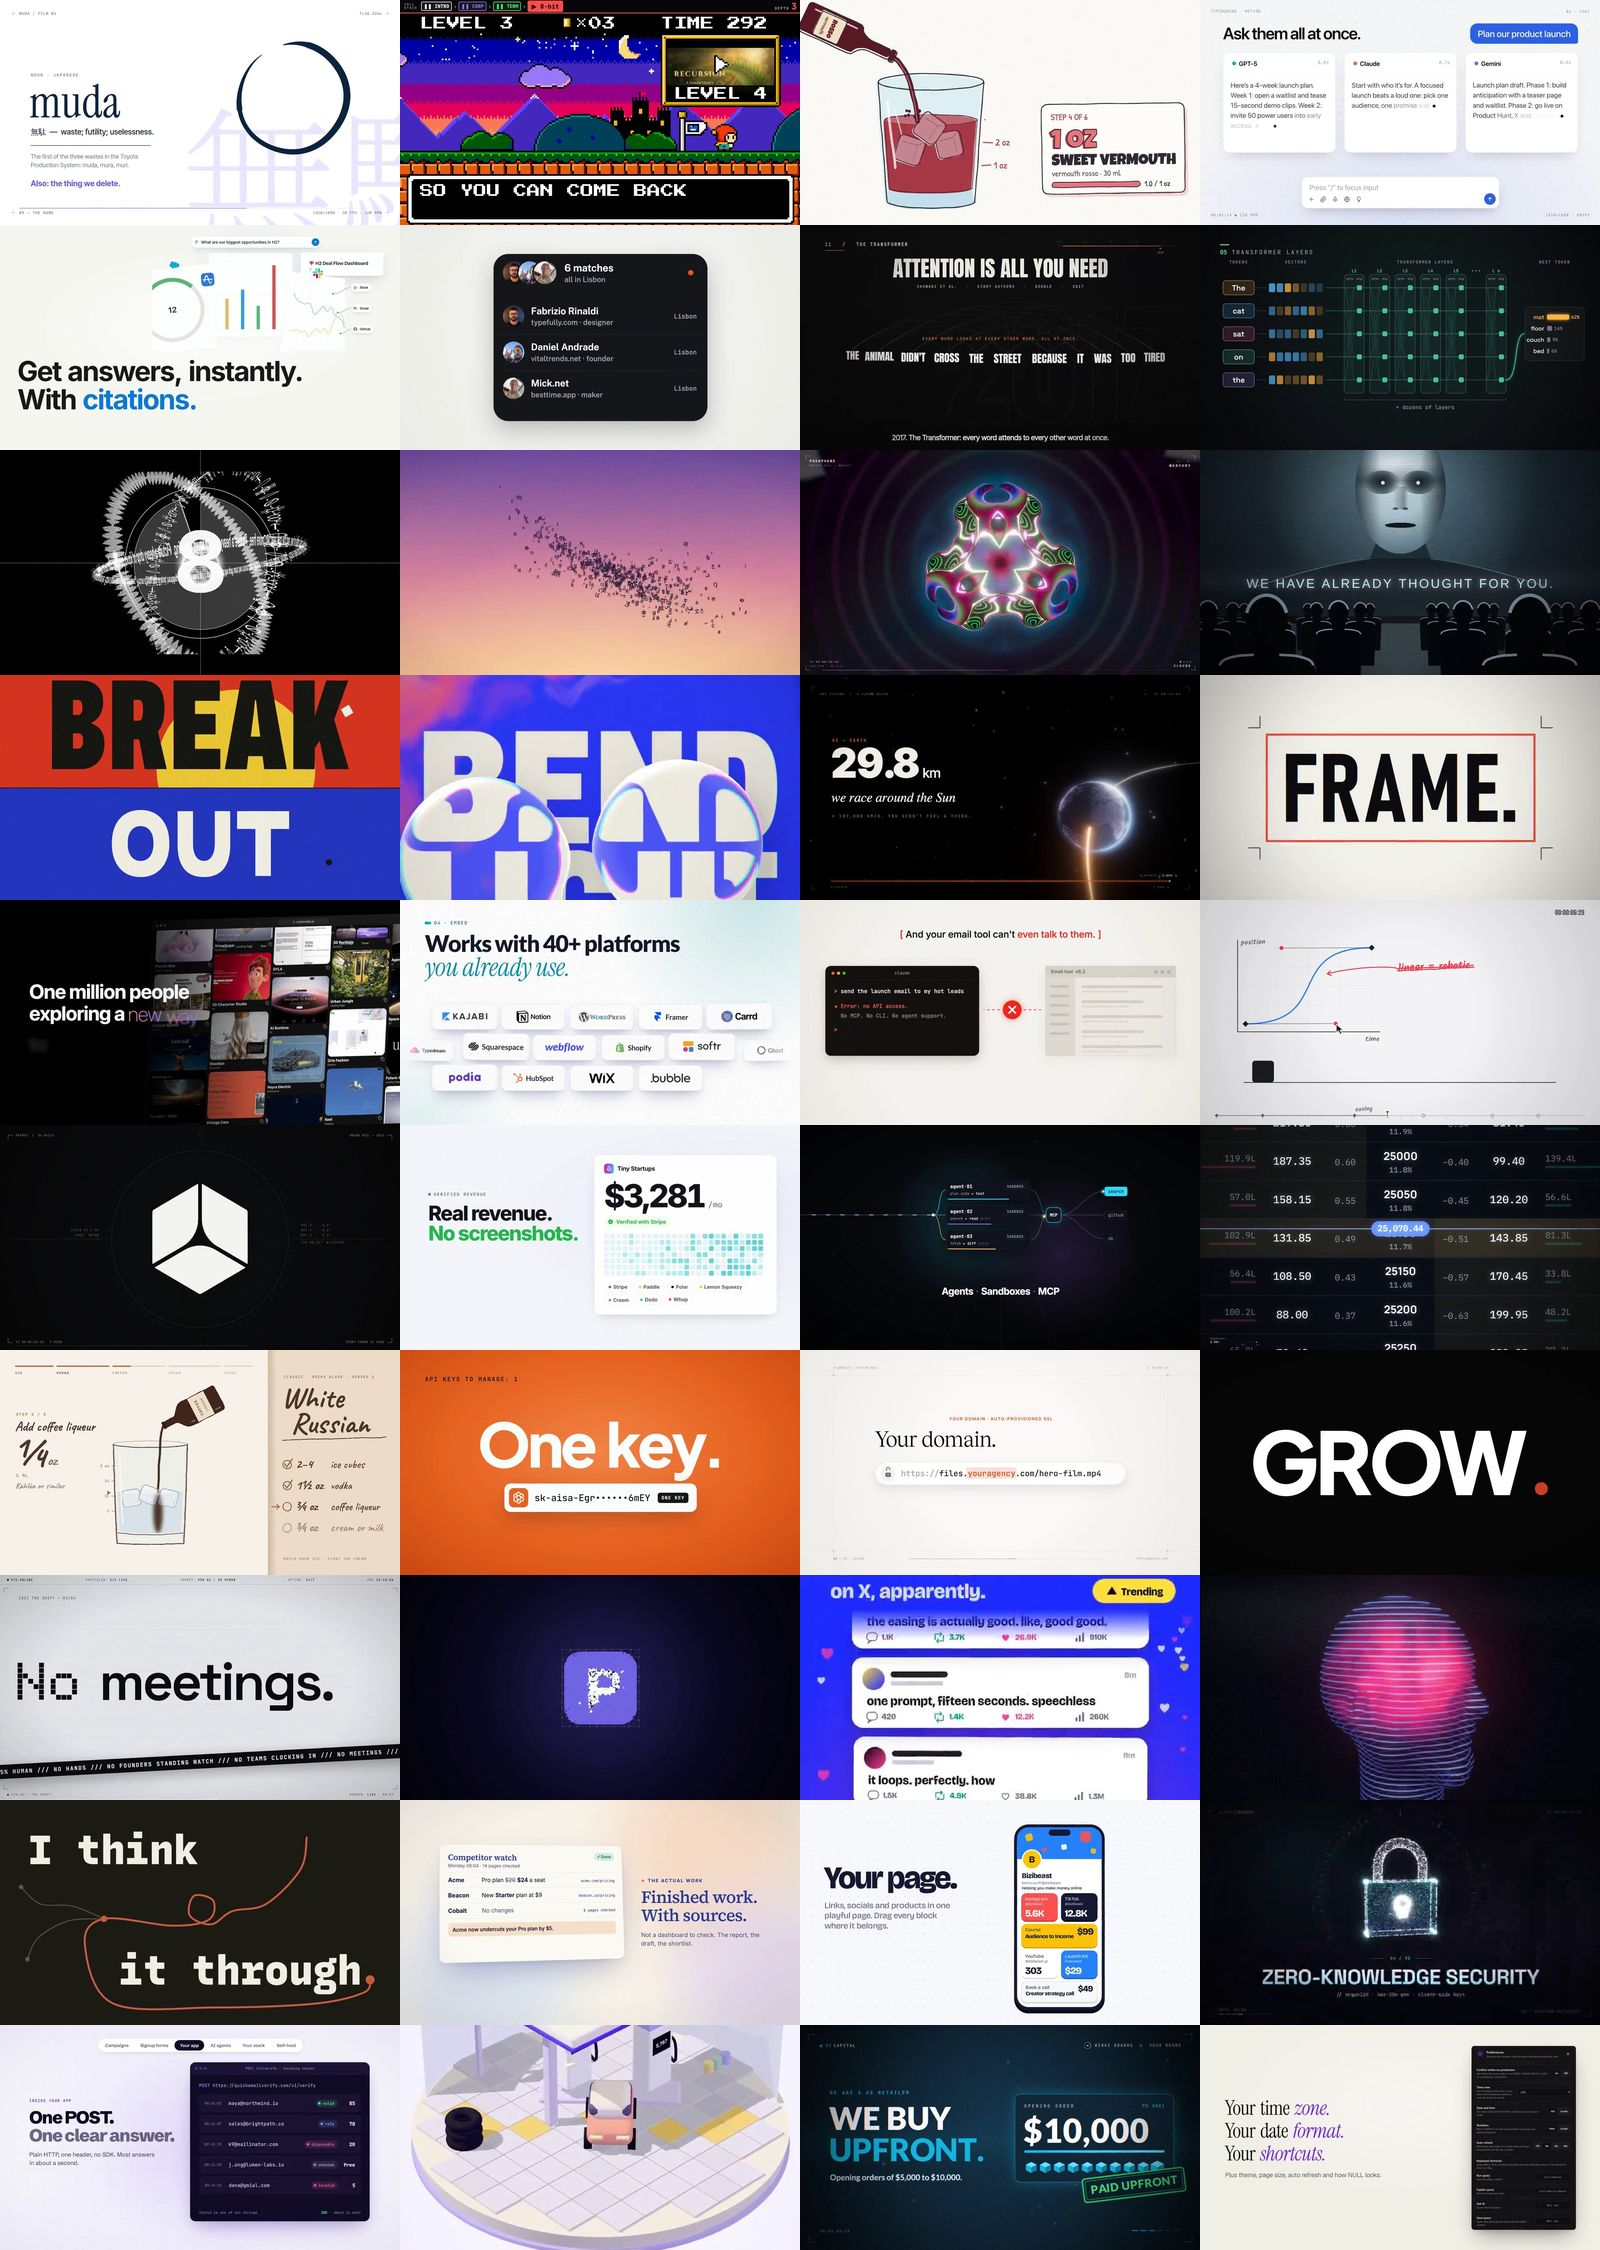
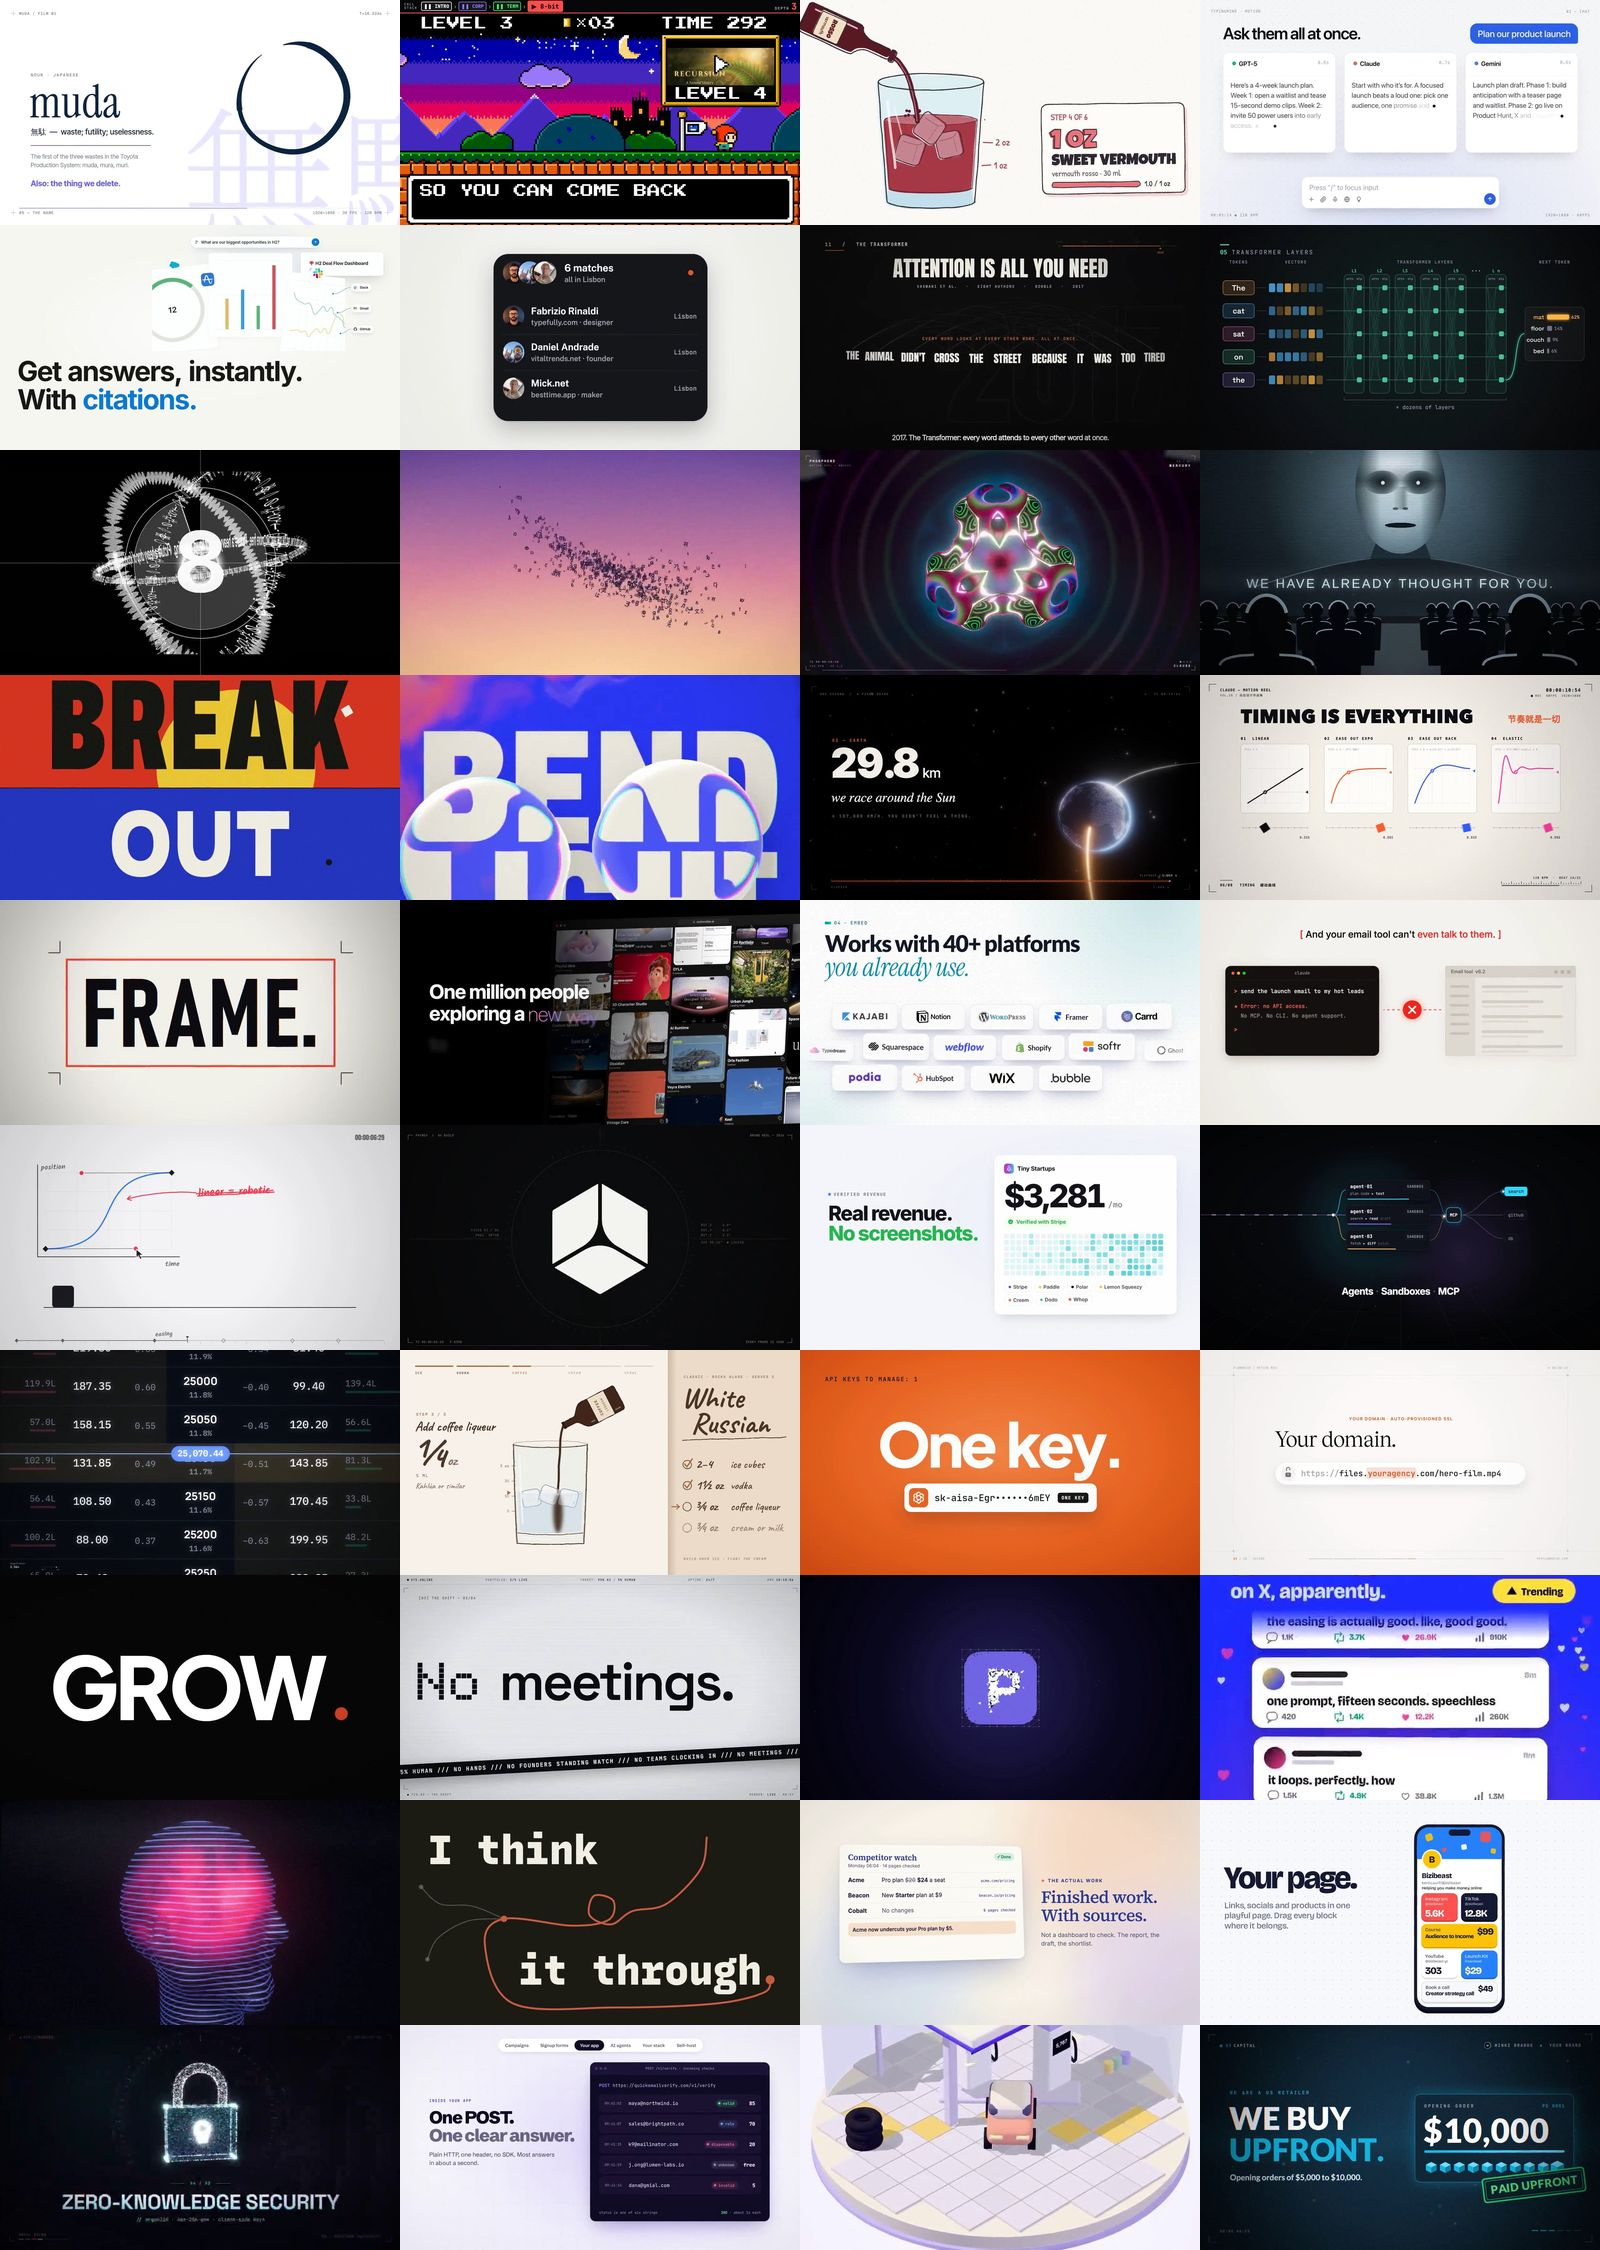
Add a motion reel from Xiaohongshu (新旧), with its one-sentence Chinese prompt

diff --git a/README.md b/README.md
@@ -1,12 +1,12 @@
 # Awesome Claude Motion Video
 
-[![Awesome](https://awesome.re/badge.svg)](https://awesome.re) ![Videos](https://img.shields.io/badge/videos-41-8a5cf6) ![Prompts](https://img.shields.io/badge/verbatim_prompts-40-f59e0b) [![License: MIT](https://img.shields.io/badge/license-MIT-blue)](LICENSE)
+[![Awesome](https://awesome.re/badge.svg)](https://awesome.re) ![Videos](https://img.shields.io/badge/videos-42-8a5cf6) ![Prompts](https://img.shields.io/badge/verbatim_prompts-41-f59e0b) [![License: MIT](https://img.shields.io/badge/license-MIT-blue)](LICENSE)
 
 <img src="assets/mosaic.jpg" alt="Frames from motion graphics videos made with Claude Opus 5.5: launch films for Notion, TypingMind and an inference startup, kinetic type, logo reveals and recipe explainers" width="100%">
 
 A curated list of **motion graphics videos made with Claude**, mostly **Claude Opus 5.5**: product launch films, UI motion with real text, logo reveals, kinetic type and explainers. Claude writes each one as code (HTML, SVG, React, Remotion or Three.js, with music synthesized in Python or JavaScript) and renders it to an MP4; none of them use a video model. Only the polished ones made it in. Each is credited to its maker and linked to the post where they shared it, and where the maker published the prompt, it's copied here word for word.
 
-**41 videos · 40 with prompts** · Updated 2026-11-12
+**42 videos · 41 with prompts** · Updated 2026-11-12
 
 Our other lists: **[awesome-claude-fable-videos](https://github.com/ummydev/awesome-claude-fable-videos)** (3D worlds and short films) and **[awesome-claude-fable-games](https://github.com/ummydev/awesome-claude-fable-games)**.
 
@@ -15,7 +15,7 @@ Our other lists: **[awesome-claude-fable-videos](https://github.com/ummydev/awes
 - [All videos](#all-videos)
 - [Product launch films](#product-launch-films) (22)
 - [Logo reveals and brand films](#logo-reveals-and-brand-films) (4)
-- [Showreels and kinetic type](#showreels-and-kinetic-type) (10)
+- [Showreels and kinetic type](#showreels-and-kinetic-type) (11)
 - [Explainers](#explainers) (5)
 - [The prompt everyone copied](#the-prompt-everyone-copied)
 - [How we pick and score](#how-we-pick-and-score)
@@ -43,6 +43,7 @@ Sorted by our score, then by likes on the original post. Click a frame to jump t
 | <a href="#poster-breaks-out"><img src="assets/shots/poster-breaks-out-1.jpg" width="160" alt="A poster breaking out of its own frame"></a> | **[A poster breaking out of its own frame](#poster-breaks-out)**<br><sub>Showreels and kinetic type</sub> | [Pankaj Kumar](https://x.com/pankajkumar_dev) | 39 | 4.5K | 9/10 |
 | <a href="#i-can"><img src="assets/shots/i-can-1.jpg" width="160" alt="I CAN: blur, loop, render, swarm, bend light"></a> | **[I CAN: blur, loop, render, swarm, bend light](#i-can)**<br><sub>Showreels and kinetic type</sub> | [Eugene C](https://x.com/zheke) | 22 | 7.6K | 9/10 |
 | <a href="#light-speed-earth"><img src="assets/shots/light-speed-earth-1.jpg" width="160" alt="One second on Earth"></a> | **[One second on Earth](#light-speed-earth)**<br><sub>Showreels and kinetic type</sub> | [Nolan Keegan](https://x.com/nolkeeg) | 1 | 368 | 9/10 |
+| <a href="#claude-motion-reel"><img src="assets/shots/claude-motion-reel-1.jpg" width="160" alt="Claude, motion designer: a 15-second reel from one sentence"></a> | **[Claude, motion designer: a 15-second reel from one sentence](#claude-motion-reel)**<br><sub>Showreels and kinetic type</sub> | [新旧](https://www.xiaohongshu.com/explore/6ac7a32f000000001a02693d) | 2.3K |  | 8/10 |
 | <a href="#no-samples-showreel"><img src="assets/shots/no-samples-showreel-1.jpg" width="160" alt="A showreel with music synthesized from scratch"></a> | **[A showreel with music synthesized from scratch](#no-samples-showreel)**<br><sub>Showreels and kinetic type</sub> | [Prasenjit](https://x.com/prasenx) | 206 | 15.1K | 8/10 |
 | <a href="#motionsites-1m-visitors"><img src="assets/shots/motionsites-1m-visitors-1.jpg" width="160" alt="MotionSites hits 1 million monthly visitors"></a> | **[MotionSites hits 1 million monthly visitors](#motionsites-1m-visitors)**<br><sub>Product launch films</sub> | [Viktor Oddy](https://x.com/viktoroddy) | 110 | 11.2K | 8/10 |
 | <a href="#famewall-mascot"><img src="assets/shots/famewall-mascot-1.jpg" width="160" alt="Famewall: it found the mascot and brought it in"></a> | **[Famewall: it found the mascot and brought it in](#famewall-mascot)**<br><sub>Product launch films</sub> | [Goutham Jay](https://x.com/gouthamjay8) | 86 | 7K | 8/10 |
@@ -755,6 +756,24 @@ Please do not reference any previous memories or skills. I've been seeing all of
 
 <sub>Our score: 9/10 for design, polish and motion.</sub>
 
+### Claude, motion designer: a 15-second reel from one sentence
+<a id="claude-motion-reel"></a>
+
+<p><a href="https://www.xiaohongshu.com/explore/6ac7a32f000000001a02693d"><img src="assets/shots/claude-motion-reel-1.jpg" width="32%" alt="Claude, motion designer: a 15-second reel from one sentence: frame 1"></a> <a href="https://www.xiaohongshu.com/explore/6ac7a32f000000001a02693d"><img src="assets/shots/claude-motion-reel-2.jpg" width="32%" alt="Claude, motion designer: a 15-second reel from one sentence: frame 2"></a> <a href="https://www.xiaohongshu.com/explore/6ac7a32f000000001a02693d"><img src="assets/shots/claude-motion-reel-3.jpg" width="32%" alt="Claude, motion designer: a 15-second reel from one sentence: frame 3"></a></p>
+
+A reel styled as a motion designer's portfolio: particle lettering, easing curves under the heading "Timing is everything", liquid type and an orange end card that tallies 899 frames, 8 scenes and 1 keyframe. From one sentence in Chinese, the same prompt that went around X.
+
+- **Watch:** [the original post on Xiaohongshu](https://www.xiaohongshu.com/explore/6ac7a32f000000001a02693d) (2.3K likes), posted 2026-10-08
+- **Made by:** 新旧 on Xiaohongshu, with Claude (the post doesn't name the model)
+
+**Prompt** (verbatim, in the maker's reply to the post):
+
+```text
+做一段15秒的动效视频，展示你是个多么厉害的动效设计师，就像简历用的作品集，全力以赴。
+```
+
+<sub>Our score: 8/10 for design, polish and motion.</sub>
+
 ### A showreel with music synthesized from scratch
 <a id="no-samples-showreel"></a>
 
@@ -976,7 +995,7 @@ The longest prompts ([MakerMap](#makermap-one-shape), [TanStack AI](#tanstack-ai
 - The maker says the video was made with Claude (Opus 5.5, or Fable 5.2 where marked), as code.
 - It has to look good: we watched every video and kept only the polished ones. The score (out of 10) is ours, for design, polish and motion.
 - We opened every post and its replies by hand to check the prompt, the tools and any follow-up messages the maker mentions.
-- Likes and views are what the original post showed when we checked it (November 12, 2026).
+- Likes and views are what the original post showed when we checked it (November 12, 2026). One video is from Xiaohongshu (小红书), which shows likes but not views.
 - The frames above are stills from each maker's own video, linked back to the post. Machine-readable list: [`data/videos.json`](data/videos.json).
 
 ## Add a video
